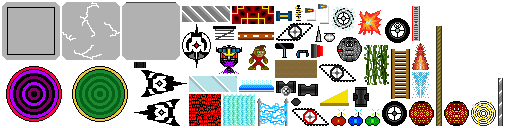
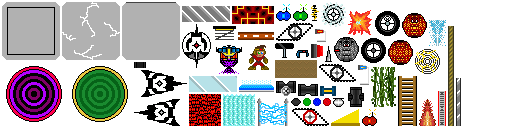
implemented gem textures within assetmanager, powerup and level loader classes

Changed region(s): [[0.5312, 0.0312, 1.0, 1.0]]

diff --git a/core/src/com/udacity/gamedev/gigagal/entity/Avatar.java b/core/src/com/udacity/gamedev/gigagal/entity/Avatar.java
@@ -109,7 +109,7 @@ public class Avatar extends Entity implements Impermeable, Humanoid {
     private float startTurbo;
     private float turbo;
     private float fallLimit;
-    private float lookQuadrant;
+    private float peerQuadrant;
     private float ammo;
     private float health;
     private int lives;
@@ -762,7 +762,7 @@ public class Avatar extends Entity implements Impermeable, Humanoid {
     public void touchAllHazards(Array<Hazard> hazards) {
         touchedHazard = null;
         if (Helpers.secondsSince(peerStartTime) > 0.5f) {
-            lookQuadrant  = 1;
+            peerQuadrant = 1;
             canPeer = false;
         }
         for (Hazard hazard : hazards) {
@@ -827,22 +827,6 @@ public class Avatar extends Entity implements Impermeable, Humanoid {
         }
         if (turbo > Constants.MAX_TURBO) {
             turbo = Constants.MAX_TURBO;
-        }
-    }
-
-    private void setPeerTarget(Physical target, float rangeMultiplier) {
-        if (lookQuadrant != 3 && position.dst(target.getPosition()) < Constants.WORLD_SIZE * rangeMultiplier) {
-            if (Helpers.speedToVelocity(position.x - target.getPosition().x, directionX, Orientation.X) > 0) {
-                canPeer = true;
-                peerStartTime = TimeUtils.nanoTime();
-                if (position.y - target.getPosition().y > target.getHeight()) {
-                    lookQuadrant = 2;
-                } else {
-                    lookQuadrant = 1;
-                }
-            } else if (position.y - target.getPosition().y > target.getHeight()) {
-                lookQuadrant = 3;
-            }
         }
     }
 
@@ -1783,7 +1767,7 @@ public class Avatar extends Entity implements Impermeable, Humanoid {
                 || (Helpers.secondsSince(activeStartTime) > 60)))) {
                 eyes = AssetManager.getInstance().getAvatarAssets().eyesBlink;
             } else if (canPeer && Helpers.secondsSince(shootStartTime) > 2) {
-                eyes = AssetManager.getInstance().getAvatarAssets().eyesOpen.getKeyFrame(lookQuadrant);
+                eyes = AssetManager.getInstance().getAvatarAssets().eyesOpen.getKeyFrame(peerQuadrant);
             }
         }
         return eyes; // defaults to parameter value if no conditions met
@@ -1816,6 +1800,22 @@ public class Avatar extends Entity implements Impermeable, Humanoid {
             }
         }
         return body; // defaults to parameter value if no conditions met
+    }
+
+    private void setPeerTarget(Physical target, float rangeMultiplier) {
+        if (peerQuadrant != 3 && position.dst(target.getPosition()) < Constants.WORLD_SIZE * rangeMultiplier) {
+            if (Helpers.speedToVelocity(position.x - target.getPosition().x, directionX, Orientation.X) > 0) {
+                canPeer = true;
+                peerStartTime = TimeUtils.nanoTime();
+                if (position.y - target.getPosition().y > target.getHeight()) {
+                    peerQuadrant = 2;
+                } else {
+                    peerQuadrant = 1;
+                }
+            } else if (position.y - target.getPosition().y > target.getHeight()) {
+                peerQuadrant = 3;
+            }
+        }
     }
 
     // Getters

diff --git a/core/src/com/udacity/gamedev/gigagal/util/AssetManager.java b/core/src/com/udacity/gamedev/gigagal/util/AssetManager.java
@@ -1439,6 +1439,9 @@ public final class AssetManager implements AssetErrorListener {
         public final Animation turboPowerup;
         public final Animation lifePowerup;
         public final Animation cannonPowerup;
+        public final Animation ruby;
+        public final Animation sapphire;
+        public final Animation emerald;
 
         private PowerupAssets(TextureAtlas atlas) {
 
@@ -1472,6 +1475,21 @@ public final class AssetManager implements AssetErrorListener {
             cannonPowerupRegions.add(atlas.findRegion(Constants.CANNON_POWERUP_SPRITE_3));
             cannonPowerupRegions.add(atlas.findRegion(Constants.CANNON_POWERUP_SPRITE));
             cannonPowerup = new Animation(Constants.POWERUP_DURATION / cannonPowerupRegions.size, cannonPowerupRegions, PlayMode.NORMAL);
+            
+            Array<AtlasRegion> rubyRegions = new Array<AtlasRegion>();
+            rubyRegions.add(atlas.findRegion(Constants.RUBY_SPRITE_1));
+            rubyRegions.add(atlas.findRegion(Constants.RUBY_SPRITE_2));
+            ruby = new Animation(Constants.POWERUP_DURATION / rubyRegions.size, rubyRegions, PlayMode.NORMAL);
+            
+            Array<AtlasRegion> sapphireRegions = new Array<AtlasRegion>();
+            sapphireRegions.add(atlas.findRegion(Constants.SAPPHIRE_SPRITE_1));
+            sapphireRegions.add(atlas.findRegion(Constants.SAPPHIRE_SPRITE_2));
+            sapphire = new Animation(Constants.POWERUP_DURATION / sapphireRegions.size, sapphireRegions, PlayMode.NORMAL);
+
+            Array<AtlasRegion> emeraldRegions = new Array<AtlasRegion>();
+            emeraldRegions.add(atlas.findRegion(Constants.EMERALD_SPRITE_1));
+            emeraldRegions.add(atlas.findRegion(Constants.EMERALD_SPRITE_2));
+            emerald = new Animation(Constants.POWERUP_DURATION / emeraldRegions.size, emeraldRegions, PlayMode.NORMAL);
         }
     }
 

diff --git a/core/src/com/udacity/gamedev/gigagal/app/LevelLoader.java b/core/src/com/udacity/gamedev/gigagal/app/LevelLoader.java
@@ -403,6 +403,18 @@ final class LevelLoader {
                 final Vector2 powerupPosition = imagePosition.add(Constants.CANNON_POWERUP_CENTER);
                 Gdx.app.log(TAG, "Loaded a CannonPowerup at " + powerupPosition);
                 level.addPowerup(new Powerup(powerupPosition, Enums.PowerupType.CANNON));
+            } else if (item.get(Constants.LEVEL_IMAGENAME_KEY).equals(Constants.RUBY_SPRITE_1)) {
+                final Vector2 powerupPosition = imagePosition.add(Constants.GEM_CENTER);
+                Gdx.app.log(TAG, "Loaded a Ruby at " + powerupPosition);
+                level.addPowerup(new Powerup(powerupPosition, Enums.PowerupType.RUBY));
+            } else if (item.get(Constants.LEVEL_IMAGENAME_KEY).equals(Constants.SAPPHIRE_SPRITE_1)) {
+                final Vector2 powerupPosition = imagePosition.add(Constants.GEM_CENTER);
+                Gdx.app.log(TAG, "Loaded a Sapphire at " + powerupPosition);
+                level.addPowerup(new Powerup(powerupPosition, Enums.PowerupType.SAPPHIRE));
+            } else if (item.get(Constants.LEVEL_IMAGENAME_KEY).equals(Constants.EMERALD_SPRITE_1)) {
+                final Vector2 powerupPosition = imagePosition.add(Constants.GEM_CENTER);
+                Gdx.app.log(TAG, "Loaded a Emerald at " + powerupPosition);
+                level.addPowerup(new Powerup(powerupPosition, Enums.PowerupType.EMERALD));
             } else if (item.get(Constants.LEVEL_IMAGENAME_KEY).equals(Constants.STAND)) {
                 final Vector2 gigaGalPosition = imagePosition.add(Constants.AVATAR_EYE_POSITION);
                 Gdx.app.log(TAG, "Loaded GigaGal at " + gigaGalPosition);

diff --git a/core/src/com/udacity/gamedev/gigagal/entity/Powerup.java b/core/src/com/udacity/gamedev/gigagal/entity/Powerup.java
@@ -48,6 +48,18 @@ public class Powerup extends Entity implements Replenishing {
                 animation = AssetManager.getInstance().getPowerupAssets().cannonPowerup;
                 center = Constants.CANNON_POWERUP_CENTER;
                 break;
+            case RUBY:
+                animation = AssetManager.getInstance().getPowerupAssets().ruby;
+                center = Constants.GEM_CENTER;
+                break;
+            case SAPPHIRE:
+                animation = AssetManager.getInstance().getPowerupAssets().sapphire;
+                center = Constants.GEM_CENTER;
+                break;
+            case EMERALD:
+                animation = AssetManager.getInstance().getPowerupAssets().emerald;
+                center = Constants.GEM_CENTER;
+                break;
             default:
                 animation = AssetManager.getInstance().getPowerupAssets().ammoPowerup;
                 center = Constants.AMMO_POWERUP_CENTER;

diff --git a/core/src/com/udacity/gamedev/gigagal/util/Constants.java b/core/src/com/udacity/gamedev/gigagal/util/Constants.java
@@ -862,6 +862,17 @@ public final class Constants {
     public static final String CANNON_POWERUP_SPRITE = "powerup-cannon";
     public static final Vector2 CANNON_POWERUP_CENTER = new Vector2(8, 5);
 
+    public static final String RUBY_SPRITE_1 = "gem-ruby-1";
+    public static final String RUBY_SPRITE_2 = "gem-ruby-2";
+
+    public static final String SAPPHIRE_SPRITE_1 = "gem-sapphire-1";
+    public static final String SAPPHIRE_SPRITE_2 = "gem-sapphire-2";
+
+    public static final String EMERALD_SPRITE_1 = "gem-emerald-1";
+    public static final String EMERALD_SPRITE_2 = "gem-emerald-2";
+    
+    public static final Vector2 GEM_CENTER = new Vector2(4, 4);
+
     // Level Loading
     public static final String LEVEL_COMPOSITE = "composite";
     public static final String LEVEL_9PATCHES = "sImage9patchs";

diff --git a/core/src/com/udacity/gamedev/gigagal/util/Enums.java b/core/src/com/udacity/gamedev/gigagal/util/Enums.java
@@ -45,7 +45,10 @@ public final class Enums {
         HEALTH,
         TURBO,
         AMMO,
-        CANNON
+        CANNON,
+        RUBY,
+        SAPPHIRE,
+        EMERALD
     }
 
     public enum ShotIntensity {
